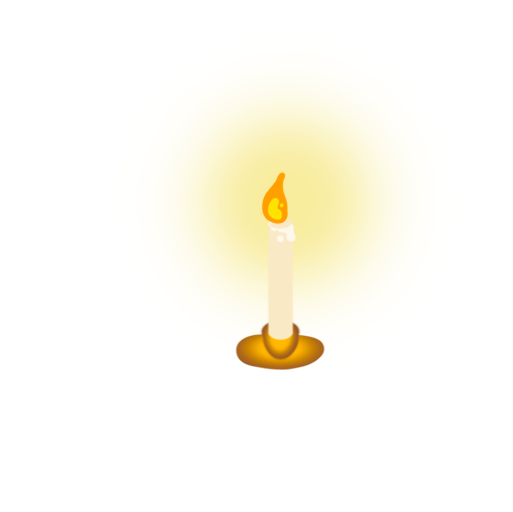
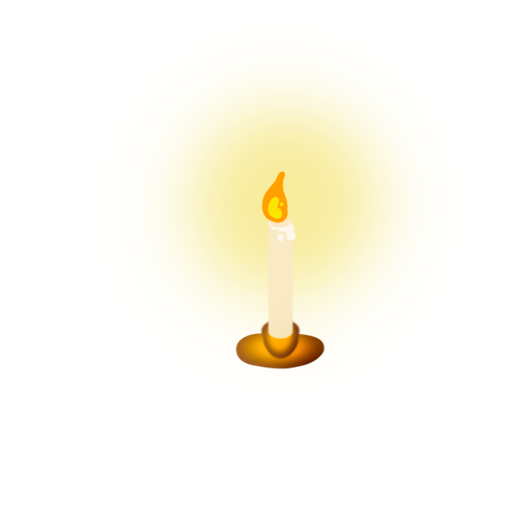
night effect for bonus

diff --git a/src/utils/candle.c b/src/utils/candle.c
@@ -6,11 +6,37 @@
 /*   By: erivero- <erivero-@student.42.fr>          +#+  +:+       +#+        */
 /*                                                +#+#+#+#+#+   +#+           */
 /*   Created: 2024/01/09 12:00:08 by erivero- De       #+#    #+#             */
-/*   Updated: 2024/01/10 10:53:09 by erivero-         ###   ########.fr       */
+/*   Updated: 2024/01/11 10:34:15 by erivero-         ###   ########.fr       */
 /*                                                                            */
 /* ************************************************************************** */
 
 #include "../../inc/cub3D.h"
+
+void	ft_night(t_game *game)
+{
+	int			i;
+	int			j;
+
+	i = 0;
+	if (!game->scene->night)
+	{
+		game->scene->night = mlx_new_image(game->mlx, 2560, 1440);
+		mlx_image_to_window(game->mlx, game->scene->night, 0, 0);
+		game->scene->night->instances[0].z = 3;
+		while (i < WIDTH)
+		{
+			j = 0;
+			if (j <= 150 && i < 150)
+				j = 150;
+			while (j < HEIGHT)
+			{
+				mlx_put_pixel(game->scene->night, i, j, 0x00000655);
+				j++;
+			}
+			i++;
+		}
+	}
+}
 
 void	ft_candle(t_game *game, t_img *img)
 {
@@ -24,7 +50,7 @@ void	ft_candle(t_game *game, t_img *img)
 	img->candle_img = mlx_texture_to_image(game->mlx, txt);
 	mlx_delete_texture(txt);
 	mlx_image_to_window(game->mlx, img->candle_img, 450, 300);
-	img->candle_img->instances[0].z = 3;
+	img->candle_img->instances[0].z = 4;
 	if (i == 5)
 		i = -5;
 	count++;

diff --git a/src/raycast/3Der.c b/src/raycast/3Der.c
@@ -6,7 +6,7 @@
 /*   By: erivero- <erivero-@student.42.fr>          +#+  +:+       +#+        */
 /*                                                +#+#+#+#+#+   +#+           */
 /*   Created: 2024/01/09 11:32:00 by erivero-          #+#    #+#             */
-/*   Updated: 2024/01/10 12:31:05 by erivero-         ###   ########.fr       */
+/*   Updated: 2024/01/11 10:04:35 by erivero-         ###   ########.fr       */
 /*                                                                            */
 /* ************************************************************************** */
 
@@ -114,6 +114,7 @@ double	ft_rayangle(int i, double angle)
 		rayangle -= (M_PI * 2);
 	return (rayangle * 180.0 / M_PI);
 }
+void	ft_night(t_game *game);
 
 void	ft_loop_handler(void *param)
 {
@@ -136,5 +137,8 @@ void	ft_loop_handler(void *param)
 		i++;
 	}
 	if (BONUS == 1)
+	{
+		ft_night(info);
 		ft_candle(info, info->imgs);
+	}
 }

diff --git a/src/parser/parse.c b/src/parser/parse.c
@@ -6,7 +6,7 @@
 /*   By: erivero- <erivero-@student.42.fr>          +#+  +:+       +#+        */
 /*                                                +#+#+#+#+#+   +#+           */
 /*   Created: 2023/11/23 13:36:34 by marirodr          #+#    #+#             */
-/*   Updated: 2024/01/10 11:16:47 by erivero-         ###   ########.fr       */
+/*   Updated: 2024/01/11 10:13:40 by erivero-         ###   ########.fr       */
 /*                                                                            */
 /* ************************************************************************** */
 
@@ -22,6 +22,7 @@ void	ft_init_scene(t_scene *scene)
 	scene->c_color = NULL;
 	scene->file = NULL;
 	scene->map = NULL;
+	scene->night = NULL;
 	scene->len_x = -1;
 	scene->len_y = -1;
 }

diff --git a/inc/cub_structs.h b/inc/cub_structs.h
@@ -6,7 +6,7 @@
 /*   By: erivero- <erivero-@student.42.fr>          +#+  +:+       +#+        */
 /*                                                +#+#+#+#+#+   +#+           */
 /*   Created: 2023/11/23 10:52:50 by marirodr          #+#    #+#             */
-/*   Updated: 2024/01/10 16:31:31 by erivero-         ###   ########.fr       */
+/*   Updated: 2024/01/11 10:13:02 by erivero-         ###   ########.fr       */
 /*                                                                            */
 /* ************************************************************************** */
 
@@ -51,6 +51,7 @@ typedef struct s_scene
 	int			len_x;
 	int			len_y;
 	mlx_image_t	*canvas;
+	mlx_image_t	*night;
 	mlx_image_t	*mini;
 	float		tile;
 	float		mini_x;
